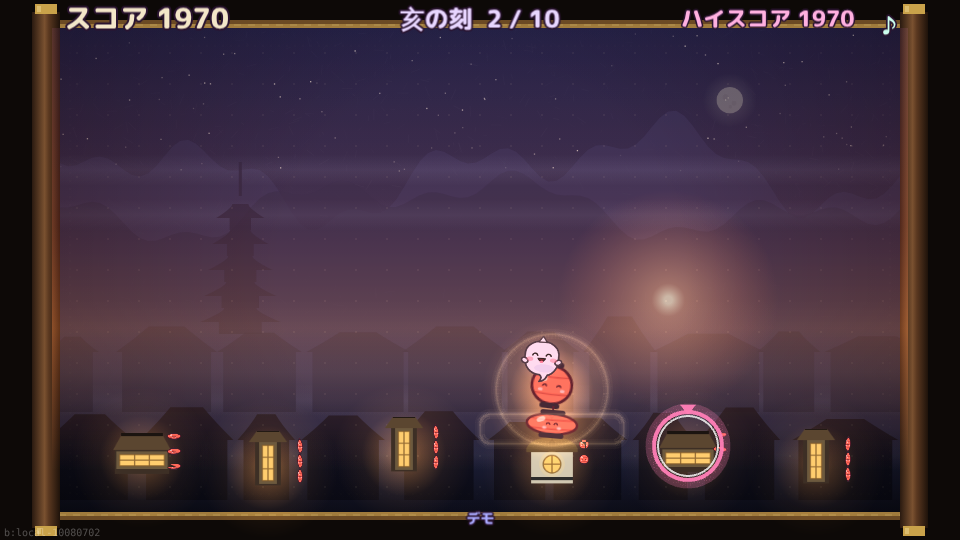
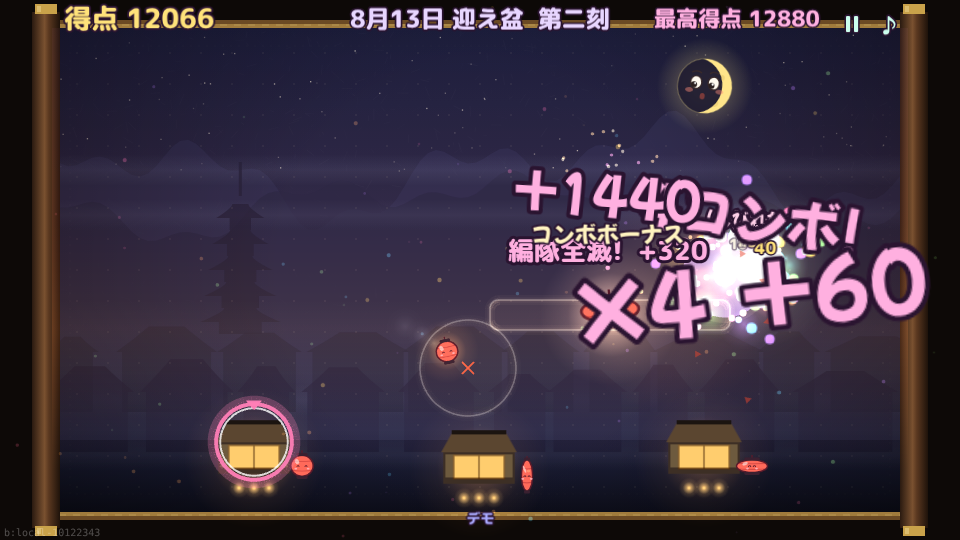
敵を少し増やす(群れ 1 組/刻・縦の群れ +0.5・出る間 0.85 倍)、1 発でまとめて倒すと「×n」・音・一瞬の止まり・点。刻ごとの通しクリア率を測る tools/clear.mjs
Claude-Session: https://claude.ai/code/session_01Juf5hZUAHSaBdTEaBHbLxy

diff --git a/src/game/logic.ts b/src/game/logic.ts
@@ -94,7 +94,8 @@ export interface Lantern {
 export interface House { x: number; y: number; hp: number; lit: boolean; ammo: number; regen: number; haunt: number; flash: number; piece: Piece; takenForm?: number }
 /** 光。中心から形どおりに伸びる。ext = 伸びた長さ(px)。中心からの距離が [ext - 帯, ext] の所が光っている */
 /** grow: 光の大きさの倍率、dmg: 当たった時の力(どちらもコンボの何発目かで増える) */
-export interface Blast { id: number; x: number; y: number; piece: Piece; ext: number; chain: number; grow: number; dmg: number }
+/** kills: この 1 発の光だけで成仏させた数(まとめ倒し) */
+export interface Blast { id: number; x: number; y: number; piece: Piece; ext: number; chain: number; grow: number; dmg: number; kills: number }
 /** t0: 連鎖が始まった時刻 */
 export interface Chain { id: number; count: number; pts: number; lx: number; ly: number; forms: Map<number, number>; bursts: number; t0: number }
 
@@ -109,6 +110,8 @@ export type GameEvent =
   | { type: 'purify'; x: number; y: number; n: number; pts: number; kind: GhostKind }
   | { type: 'chainEnd'; x: number; y: number; n: number; pts: number; bonus: number }
   | { type: 'formation'; x: number; y: number; size: number; bonus: number }
+  /** 1 発の光で n 体目を巻き込んだ(n >= 2 の時だけ。その場で「×n」) */
+  | { type: 'multi'; x: number; y: number; n: number; bonus: number }
   | { type: 'haunt'; x: number; y: number; house: number }
   | { type: 'saved'; x: number; y: number; house: number }
   | { type: 'houseOut'; x: number; y: number; house: number; left: number; kind?: GhostKind; ghost?: number }
@@ -170,7 +173,7 @@ export class Game {
     this.wave = startWave;
     this.pieces = PIECE_SETS[P.pieceSet] ?? PIECE_SETS['縦・横・丸'];
     this.buildHouses(dayOf(startWave));
-    this.groups = waveGroups(startWave, this.rng);
+    this.groups = waveGroups(startWave, this.rng, this.P.swarm, this.P.swarmLast);
   }
 
   /**
@@ -352,7 +355,7 @@ export class Game {
     const k = c.bursts - 1;
     const grow = 1 + Math.min(k, 4) * this.P.chainGrow;
     const dmg = Math.min(3, 1 + Math.floor(k / 2));
-    this.blasts.push({ id: this.nextId++, x: l.tx, y: l.ty, piece: l.piece, ext: 0, chain: c.id, grow, dmg });
+    this.blasts.push({ id: this.nextId++, x: l.tx, y: l.ty, piece: l.piece, ext: 0, chain: c.id, grow, dmg, kills: 0 });
     this.lanterns = this.lanterns.filter((q) => q !== l);
     this.events.push({ type: 'break', x: l.tx, y: l.ty, chained: !!chain, n: c.bursts, dmg, grow });
   }
@@ -443,10 +446,17 @@ export class Game {
         this.events.push({ type: 'watch', n: this.wave });
         // あせる時間: 第二・第三刻の途中で、しばらくおばけが速くなる(曲も速くなる)
         this.feverFrom = waveInDay(this.wave) >= this.P.feverFromHour ? this.t + this.P.feverAt : Infinity;
+        // 群れを少し増やして詰める: 小さいおばけの縦の群れ(2 体以上)に、日ごとの数を足す(小数は組に配る。0.5 なら 2 組に 1 体)
+        const more = [this.P.more1, this.P.more2, this.P.more3][Math.min(2, dayOf(this.wave))];
+        let k = 0;
         for (const g of this.groups) {
           const form = this.nextId++;
-          this.formSize.set(form, g.n * g.cols.length);
-          for (let i = 0; i < g.n; i++) this.queue.push({ at: this.t + g.t + i * g.gap * this.P.spread, g, form });
+          const small = g.kind !== 'big' && g.kind !== 'giant' && g.kind !== 'mega' && g.n >= 2;
+          const add = small ? Math.floor(more * (k + 1)) - Math.floor(more * k) : 0;
+          if (small) k++;
+          const n = g.n + add, gap = g.gap * this.P.spread * (small ? this.P.packGap : 1);
+          this.formSize.set(form, n * g.cols.length);
+          for (let i = 0; i < n; i++) this.queue.push({ at: this.t + g.t + i * gap, g, form });
         }
       }
       return;
@@ -464,7 +474,7 @@ export class Game {
         this.events.push({ type: 'dayEnd', day: dayOf(this.wave) });
         this.rebuildAt = this.t + DAY_FADE.dark;
       }
-      this.groups = waveGroups(this.wave + 1, this.rng);
+      this.groups = waveGroups(this.wave + 1, this.rng, this.P.swarm, this.P.swarmLast);
     }
   }
 
@@ -776,6 +786,13 @@ export class Game {
         chain.pts += pts; this.score += pts; this.purified++;
         chain.lx = g.x; chain.ly = g.y;
         this.events.push({ type: 'purify', x: g.x, y: g.y, n: chain.count, pts, kind: g.kind });
+        // まとめ倒し: 同じ 1 発の光で 2 体目・3 体目…を巻き込むたびに、その場で「×n」と点(n 体目は multiPts × (n-1))
+        b.kills++;
+        if (b.kills >= 2) {
+          const mb = Math.round(P.multiPts * (b.kills - 1));
+          chain.pts += mb; this.score += mb;
+          this.events.push({ type: 'multi', x: g.x, y: g.y, n: b.kills, bonus: mb });
+        }
       }
     }
   }

diff --git a/src/tuning.ts b/src/tuning.ts
@@ -39,6 +39,7 @@ export const KNOBS: Knob[] = [
   { key: 'score.big', label: '大入道の点の倍率', value: 5, min: 1, max: 20, step: 1, unit: '倍' },
   { key: 'score.giant', label: '大大入道の点の倍率', value: 12, min: 1, max: 50, step: 1, unit: '倍' },
   { key: 'score.mega', label: '特大入道の点の倍率', value: 25, min: 1, max: 60, step: 1, unit: '倍', aim: '倒した時のごほうび' },
+  { key: 'score.multi', label: 'まとめ倒しの点(1 発で n 体目)', value: 20, min: 0, max: 200, step: 5, unit: '点×(n-1)', aim: '1 発の光で 2 体目から、巻き込むたびに足す(3 体で 0+1+2 倍ぶん)。「×n」の表示と一緒' },
   { key: 'score.formation', label: '編隊ボーナス', value: 40, min: 0, max: 1000, step: 10, unit: '点×数×刻', aim: '一緒に来た群れを、一度の光(と誘爆)で全部倒した時' },
   // 家
   // おばけ(動きは種類ごとに決まっている)
@@ -69,10 +70,19 @@ export const KNOBS: Knob[] = [
   { key: 'ghost.zigLen', label: 'いなずまが家へ向かうまでに走る道のり', value: 1500, min: 400, max: 3000, step: 50, unit: 'px', aim: '速さ × 道のりで、倒すまでの猶予がほかと同じくらいになるように' },
   { key: 'ghost.march', label: '行進が 1 段で下がる高さ', value: 46, min: 20, max: 120, step: 2, unit: 'px', aim: 'インベーダーのように、端で下がる' },
   // 刻
+  // 敵の数と群れ(2026-10-13「少し敵が増えて、まとめて倒した感」)。硬さ(力)は変えずに数で
+  { key: 'wave.more1', label: '1 日目: 群れ 1 つに足すおばけ', value: 0.5, min: 0, max: 3, step: 0.25, unit: '体/群れ', aim: '小さいおばけの縦の群れ(2 体以上)に足す。小数は組に配る(0.5 = 2 組に 1 体)。0 = 前のまま' },
+  { key: 'wave.more2', label: '2 日目: 群れ 1 つに足すおばけ', value: 0.5, min: 0, max: 3, step: 0.25, unit: '体/群れ' },
+  { key: 'wave.more3', label: '3 日目: 群れ 1 つに足すおばけ', value: 0, min: 0, max: 3, step: 0.25, unit: '体/群れ', aim: '3 日目は足しすぎると崖(2 体でクリア率が半分)。少しずつ' },
+  { key: 'wave.packGap', label: '群れの詰まり(出る間の倍率)', value: 0.85, min: 0.4, max: 1.5, step: 0.05, unit: '倍', aim: '小さいほど群れが詰まって、1 発でまとめて取りやすい(同時に画面にいる数も増える)' },
+  { key: 'wave.swarm', label: '群れの組を足す(1)/ 足さない(0)', value: 1, min: 0, max: 1, step: 1, unit: '', aim: '各刻に 1 組、幽霊が横に詰めて 2 段で来る(1 日目 4 体、2・3 日目 6 体)。丸や横の光 1 発でまとめて取れる' },
+  { key: 'wave.swarmLast', label: '総力戦にも群れを足す', value: 0, min: 0, max: 1, step: 1, unit: '', aim: '総力戦は崖になりやすいので別のつまみ' },
   { key: 'wave.bonus', label: '刻を越えた時の 1 軒あたりの点', value: 50, min: 0, max: 500, step: 10, unit: '点×刻' },
   // 演出
   { key: 'juice.shake', label: '家の灯りが消えた時の揺れ', value: 0.012, min: 0, max: 0.05, step: 0.002, unit: '画面比' },
   { key: 'juice.hitstop', label: '大連鎖の一瞬の止まり', value: 60, min: 0, max: 200, step: 10, unit: 'ms', aim: '6 連以上で効く' },
+  { key: 'juice.multiStop', label: 'まとめ倒しの一瞬の止まり(×3 から、1 体ごと)', value: 30, min: 0, max: 80, step: 5, unit: 'ms', aim: '×3 で 1 倍、×4 で 2 倍、×5 以上で 3 倍。長いと重たく感じる' },
+  { key: 'juice.multiRing', label: 'まとめ倒しの光の輪の大きさ', value: 1, min: 0, max: 3, step: 0.1, unit: '倍', aim: '巻き込んだ数ほど大きく(×n で 1 + 0.45n 倍)' },
   { key: 'audio.bgm', label: 'BGM', value: true },
   { key: 'audio.sfx', label: '効果音の音量', value: 0.45, min: 0, max: 1, step: 0.05, aim: 'AI は聴かずに音量を決めるので大きめになりがち。控えめから' },
   { key: 'audio.music', label: 'BGM の音量', value: 0.28, min: 0, max: 1, step: 0.05 },

diff --git a/src/scenes/Play.ts b/src/scenes/Play.ts
@@ -48,6 +48,8 @@ export class Play extends Phaser.Scene {
   private player: Player | null = null;
   private bot: Bot | null = null;
   private hitstop = 0;
+  private multiText?: Phaser.GameObjects.Text;
+  private multiAt = 0;
   private ended = false;
   private offTap: (() => void) | null = null;
   private offAim: (() => void) | null = null;
@@ -432,6 +434,9 @@ export class Play extends Phaser.Scene {
         if (e.n >= 2) this.showChain(e.n, e.x, e.y);
         break;
       }
+      case 'multi':
+        this.showMulti(e.n, e.bonus, e.x, e.y);
+        break;
       case 'chainEnd':
         snd.chainEnd(e.n);
         if (e.bonus > 0) this.combo(e.n, e.bonus, e.x, e.y);
@@ -570,6 +575,33 @@ export class Play extends Phaser.Scene {
 
   /** コンボの瞬間: 倒すたびに「2コンボ!」「3コンボ!」…と、その場で勢いよく弾む(数が増えるほど大きく、色が変わる) */
   /** コンボの瞬間: 1 つの文字を書き換えていく(2コンボ → 3コンボ…)。増やさず、その場で弾んで色が変わる */
+  /** まとめ倒し: 1 発の光で 2 体目・3 体目…を巻き込むたびに、その場で「×n」が大きくなり、音が上がり、×3 から一瞬止まる */
+  private showMulti(n: number, bonus: number, x: number, y: number) {
+    snd.multi(n);
+    const cols = ['#9ff0ff', '#ffe27a', '#ffb0e0', '#b8ffb0', '#c8a0ff'];
+    const col = cols[(n - 2) % cols.length], size = Math.min(22 + n * 6, 64);
+    const xx = Phaser.Math.Clamp(x, 80, W - 80), yy = Phaser.Math.Clamp(y + 30, 60, H - 60);
+    // 同じ光の続き(近くで少し前に出たもの)なら、その「×n」を差し替えて大きくする
+    let o = this.multiText;
+    if (!o || !o.active || this.time.now - this.multiAt > 700 || Math.hypot(o.x - xx, o.y - yy) > 220) {
+      o = this.add.text(xx, yy, '', pop(size, col, { strokeThickness: 6 })).setOrigin(0.5).setDepth(62);
+      this.multiText = o;
+    }
+    this.multiAt = this.time.now;
+    this.tweens.killTweensOf(o);
+    o.setText(`×${n}${bonus > 0 ? `  +${bonus}` : ''}`).setFontSize(size).setColor(col).setAlpha(1).setScale(1.7).setAngle(n % 2 ? 6 : -6);
+    this.tweens.add({ targets: o, x: Phaser.Math.Linear(o.x, xx, 0.4), y: Phaser.Math.Linear(o.y, yy, 0.4), scale: 1, angle: 0, duration: 160, ease: 'Back.Out' });
+    this.tweens.add({ targets: o, y: '-=24', alpha: 0, delay: 650, duration: 380, ease: 'Quad.In', onComplete: () => { o!.destroy(); if (this.multiText === o) this.multiText = undefined; } });
+    // 巻き込むほど大きな光の輪と火の粉
+    const ring = this.add.image(x, y, 'glow').setBlendMode(Phaser.BlendModes.ADD).setTint(Phaser.Display.Color.HexStringToColor(col).color).setScale(0.3).setDepth(29);
+    this.tweens.add({ targets: ring, scale: tune<number>('juice.multiRing') * (1 + n * 0.45), alpha: 0, duration: 420 + n * 60, ease: 'Quad.Out', onComplete: () => ring.destroy() });
+    this.fireworksBig.explode(Math.min(6 + n * 5, 40), x, y);
+    if (n >= 3) {
+      this.hitstop = Math.max(this.hitstop, tune<number>('juice.multiStop') * Math.min(n - 2, 3));
+      this.cameras.main.shake(70 + n * 15, 0.0015 + Math.min(n, 6) * 0.0006);
+    }
+  }
+
   private showChain(n: number, x: number, y: number) {
     const cols = ['#fff3c0', '#ffe27a', '#9ff0ff', '#b8ffb0', '#ffb0e0', '#c8a0ff'];
     const size = Math.min(26 + n * 2.5, 52);

diff --git a/src/game/waves.ts b/src/game/waves.ts
@@ -136,6 +136,17 @@ const WAVES: Group[][] = [
   [...P.line(false), ...shift(P.loop(true), 2), ...shift(P.sides(false), 5), ...shift(Q.kazeRow(true), 8), ...shift(Q.marchK(false), 10),
     ...shift(Q.escort(false), 12), ...shift(P.cross(false), 17), ...shift(P.giant(false), 20), ...shift(Q.kazeSide(true), 22), ...shift(Q.zig(true), 15), ...shift(P.mega(false), 24)],
 ];
+// 群れ(2026-10-13): 小さい幽霊が横に詰めて 2 段で来る組。丸や横の光 1 発で「×4」「×6」とまとめて取れる。
+// 刻ごとに [出る秒, 列の数, 左右反転, 向かう家]。wave.swarm が 1 の時だけ足す(総力戦は wave.swarmLast)
+const swarm = (t: number, w: number, m: boolean, to: number): Group => {
+  const c0 = X(w === 2 ? 5 : 4, m);
+  return { t, kind: 'fuwa', cols: Array.from({ length: w }, (_, i) => (m ? c0 - i : c0 + i)), n: 2, gap: 0.55, to: T(to, m), turn: 0.5 };
+};
+const SWARMS: Array<Array<Parameters<typeof swarm>>> = [
+  [[11, 2, true, 2]], [[7, 2, false, 2]], [[5, 3, true, 3]],
+  [[7, 3, false, 2]], [[13, 3, true, 3]], [[4, 3, false, 3]],
+  [[12, 3, true, 2]], [[16, 3, false, 2]], [[18, 3, true, 3]],
+];
 export const WAVE_COUNT = WAVES.length;
 /** n ウェーブ目が何日目か(0 = 8/13)と、その日の何番目か */
 export const dayOf = (n: number) => Math.floor(n / WAVES_PER_DAY);
@@ -143,13 +154,14 @@ export const waveInDay = (n: number) => n % WAVES_PER_DAY;
 export const OPENING_WAVES = WAVES.length;
 
 /** n 刻目の出方(10 刻より先は、型を混ぜて毎回変わる。いまは 10 刻でクリア) */
-export function waveGroups(n: number, rng: Rng): Group[] {
+export function waveGroups(n: number, rng: Rng, swarms = 0, swarmLast = 0): Group[] {
   if (n < WAVES.length) {
+    const extra = swarms > 0 && (n < WAVES.length - 1 || swarmLast > 0) ? SWARMS[n].map((a) => swarm(...a)) : [];
     // 2・3 日目は、刻ごとに決まった縦の筋へみんなが集まってから家へ(狙ってまとめて倒しやすく、家までの道も長く)
     // 3 日目は第一・第二刻だけ集まりを弱める(筋に寄らない組を混ぜる)代わりに、総力戦は少し軽く
     // 2・3 日目は、刻ごとに決まった縦の筋へいったん集まってから家へ(やりすぎないよう、3 日目の第一・第二刻は半分の組だけ)
     const via = n >= WAVES_PER_DAY ? [300, 480, 660][n % 3] : undefined;
-    return WAVES[n].map((g, k) => ({ ...g, via: n >= 2 * WAVES_PER_DAY && n < WAVES.length - 1 && k % 2 ? undefined : via }));
+    return [...WAVES[n], ...extra].map((g, k) => ({ ...g, via: n >= 2 * WAVES_PER_DAY && n < WAVES.length - 1 && k % 2 ? undefined : via }));
   }
   const keys = Object.keys(PATTERNS);
   const out: Group[] = [];

diff --git a/src/game/sound.ts b/src/game/sound.ts
@@ -90,6 +90,13 @@ export const snd = {
       if (n >= 4) { tone({ freq: f * 2, dur: 0.18, type: 'triangle', gain: 0.025, delay: 0.04 }); tone({ freq: f * 3, dur: 0.12, type: 'triangle', gain: 0.018, delay: 0.08 }); }
     }
   },
+  /** 1 発の光で n 体目を巻き込んだ: 「ぽん」が巻き込むほど高く・明るく(×3 からきらめき、×5 から和音) */
+  multi: (n: number) => {
+    const f = brightNote(Math.min(n + 2, 12));
+    chime(f, 0.05 + Math.min(n, 6) * 0.006, 0, 0.5 + n * 0.08);
+    if (n >= 3) tone({ freq: f * 1.5, dur: 0.22, type: 'triangle', gain: 0.022, delay: 0.05 });
+    if (n >= 5) { tone({ freq: f * 1.26, dur: 0.3, type: 'sine', gain: 0.02, delay: 0.09 }); tone({ freq: f * 2, dur: 0.3, type: 'sine', gain: 0.018, delay: 0.12 }); }
+  },
   burnout: () => noise({ dur: 0.4, gain: 0.06, freq: 600, q: 2 }),
   /** n 体目の成仏: 鈴が音階を上っていく */
   purify: (n: number) => rin(note(6 + Math.min(n - 1, 12)), 0.045, 0, 1.0),

diff --git a/src/game/params.ts b/src/game/params.ts
@@ -58,6 +58,13 @@ export function readParams() {
     waveBonus: tune('wave.bonus'),
     chainBonus: tune('score.chain'),
     formBonus: tune('score.formation'),
+    multiPts: tune('score.multi'),
+    more1: tune('wave.more1'),
+    more2: tune('wave.more2'),
+    more3: tune('wave.more3'),
+    packGap: tune('wave.packGap'),
+    swarm: tune('wave.swarm'),
+    swarmLast: tune('wave.swarmLast'),
   };
 }
 export type Params = ReturnType<typeof readParams>;

diff --git a/HANDOFF.md b/HANDOFF.md
@@ -2,7 +2,7 @@
 
 <!-- セッション終了時に AI が更新。別の AI が読んで続きを始められる内容にする。 -->
 
-## 現状(2026-10-09 73 回目まで。置ける提灯はどの日も 3、光は縦横 120・丸 48。家の形は重ならずに配る。連鎖は置いてあった提灯だけ。家は 3 匹で落ちる(前に灯り 3 つ)。敵の動きは読みやすい新版(F2「おばけの動き」0 で前の動き)。ルート図 docs/routes.png。投げる家は固定(真ん中から、押して変える)をお試し中(F2「投げる家」0 で前の方式)。日の変わり目は暗転、3 日目のあとは夜明け。これまでの版は /history/(history ブランチ、tools/history.sh)。形の検証道具 tools/shapes.mjs(斜めの角度 light.diag・隊列の間 ghost.spread は F2 で試せる。既定は前のまま)。公開中: https://mukkii-game.github.io/obake-chochin/ )
+## 現状(2026-10-13 74 回目まで。置ける提灯はどの日も 3、光は縦横 120・丸 48。家の形は重ならずに配る。連鎖は置いてあった提灯だけ。家は 3 匹で落ちる(前に灯り 3 つ)。敵の動きは読みやすい新版(F2「おばけの動き」0 で前の動き)。ルート図 docs/routes.png。投げる家は固定(真ん中から、押して変える)をお試し中(F2「投げる家」0 で前の方式)。日の変わり目は暗転、3 日目のあとは夜明け。これまでの版は /history/(history ブランチ、tools/history.sh)。形の検証道具 tools/shapes.mjs(斜めの角度 light.diag・隊列の間 ghost.spread は F2 で試せる。既定は前のまま)。公開中: https://mukkii-game.github.io/obake-chochin/ )
 遊びの芯: 押して離した所へ家から提灯が飛び、着いて 3 秒で弾ける。光が他の提灯の範囲の縁に触れると 0.2 秒ずつ順に誘爆(ぴん、ぽん、ぱーん)。光の形(縦・横・丸)は家ごとに違い、軒先の提灯の形で分かる(家の絵はどれも同じ長屋)。
 - **日と刻**: 8/13 迎え盆・8/14 中日・8/15 お盆 × 第一〜第三刻 = 9 刻(src/game/waves.ts の WAVES と WAVE_NAMES)。題: 幽霊の行列 / 唐傘の横渡り / 鬼火の輪と大入道 / はやて / おばけの行進 / 大入道とざこたち / はさみうち / 大入道まつり / 総力戦!。8/15 を凌ぐとエンディング(src/scenes/Ending.ts、スタッフロール)→ 結果。日が変わると家は全部灯り直す。
 - **家と提灯**: 家は 1 日目 3・2 日目 4・3 日目 5 軒。提灯の在庫は無く、画面に置けるのは家の数まで(3・4・5)。2・3 日目は光が 1.5・2 倍に広がり、斜め(右・左)の家も入る(形はランダム)。家の選択は 1 回投げたら外れる。次の日は家が全部灯る(持ち越さない)。2・3 日目のおばけは縦の筋にいったん集まる。日のはじめに「ちょうちんは 3つまで おけるよ! れんさで パワーUP!」。いっぱいの時はカーソルの置き場所の枠が点滅するだけ、押すと「3こまで!」。
@@ -17,14 +17,17 @@
 - **1 日目**: おばけは 0.75 倍の速さ(ghost.day1。家が 3 軒しかないので)。
 - **群れ**: 小さいおばけは必ず 3 体以上の詰まった群れで来る(間 0.6〜0.9 秒)。家が消えても隊列はばらけず、同じ家へ同じ道の形のまま向かう。爆発は少なめの粒から、コンボで増えて白くなる。
 - **言葉**: 「ウェーブ」は使わず「第一刻」。得点・最高得点。結果: 村の灯りがきえちゃった / 最大れんさ / 成仏させた / たおした隊列 / たどりついた日。
+- **敵を少し増やした・まとめ倒し(74 回目、2026-10-13)**: 硬さはそのまま。各刻に幽霊の「群れ」1 組(横に詰めて 2 段。1 日目 4 体・2・3 日目 6 体、総力戦は無し)= wave.swarm 0→1 / 1・2 日目の縦の群れは 2 組に 1 組 +1 体 = wave.more1・more2 0→0.5(3 日目 wave.more3 は 0 のまま)/ 群れの出る間 wave.packGap 1→0.85。刻ごとの敵の数 11・12・12・17・18・25・18・27・51 → 16・18・22・25・26・35・24・33・51。1 発で 2 体以上まとめて倒す回数は刻あたり約 1.3〜1.5 倍。1 発で巻き込むたびに「×n +点」(score.multi 0→20 点×(n-1))、高くなる鐘、光の輪(juice.multiRing 1)、×3 から一瞬止まる(juice.multiStop 30ms×(n-2)、3 段まで)。bot(tools/clear.mjs 400 回、通し)で総力戦を越えた割合: 速い 98→95% / 0.6 秒遅れ 76→70% / 遅い 63→59% / もっと遅い(0.7, 1 秒)56→48%。2 日目の終わりまで: 99〜100% → 94〜99%(遅い bot ほど 5〜6 ポイント下がる)。1 日目はどれも 100% のまま。
 - 経緯は DECISIONS.md の 19〜32 回目。仮決めは QUESTIONS.md。数値は全部 src/tuning.ts(F2)。
 
 ## 確認できたこと(この環境)
 - 毎回: tsc / build / sim(決定性 OK)/ test:replay(記録の再生が一致)。 バランスと攻略性は `node tools/eval.mjs 10`(上手い / ためる / 網を作る / 形を考えない / ふつう / 初心者 / 先読みしない の bot を並べる。ONLY=0,3 で絞る、OVR='{"lureR":50}' で数値を上書き)。見た目を変えた回は Playwright で画面を撮って確認。
 - クリア率(node tools/sim.mjs 16 / 0.6 秒遅れは `node tools/sim.mjs 10 0.8 0.6`): 速い bot 16/16、0.6 秒遅れる bot 10 回中 5〜7 回。刻ごとは `node tools/waves.mjs 4`。
-- 未確認: 音を実際に聴いた感じ、実機スマホ、人間の難しさの感じ方。大入道の泣き顔の段階・人の大ジャンプは画面で未確認。公開 URL はこの環境から開けないので、CI の公開成否を API で確かめている。
+- 刻ごとの通しのクリア率は `node tools/clear.mjs 400`(4 種の bot、約 4 分。BOTS='0.8:0.6' で選ぶ、OVR='{"swarm":0}' で params を上書き)。数が少ないと ±5 ポイントは揺れるので 300 回以上で比べる。
+- 未確認: 「×n」の音とヒットストップの手触り(画面には出ることを確認)、音を実際に聴いた感じ、実機スマホ、人間の難しさの感じ方。大入道の泣き顔の段階・人の大ジャンプは画面で未確認。公開 URL はこの環境から開けないので、CI の公開成否を API で確かめている。
 
 ## 次の一手
+- 74 回目の確かめ: 1 日目第三刻(群れ 6 体が来る)・2 日目第三刻・3 日目第二刻を遊んで、「×3」「×6」の気持ちよさと難しさを見る。重ければ juice.multiStop を下げる。増やし足りなければ wave.more3 を 0.25 ずつ。
 - 人間が遊んで難しさを決める: 8/15 は敵を 2 体足すだけでクリア率が半分になる崖がある。足すなら 1 つずつ。横の速さ ghost.side、いなずま ghost.inazuma / ghost.zigLen、コンボの広がり chain.grow、連鎖の余裕 chain.pad、誘爆の間 chain.delay。
 - スタッフロールの名前の確認(src/scenes/Ending.ts の STAFF)。
 - 絵の差し替え(tools/art/README.md)。
@@ -80,4 +83,6 @@
 - 2026-10-08 【憲法・雛形の担当の方へ】HANDOFF の更新は「push のたび」ではなく「人間の依頼のひと区切りごと」になりがちで、細かい依頼が続くと十数回分ずれた(人間に「いわれなくてもやってる?」と聞かれた)。DECISIONS への追記は毎回していたので、HANDOFF の「現状」は DECISIONS から要約すれば戻せた。提案: AGENTS.md に「push のたびに HANDOFF の現状の行も 1 行直す(全体は読み直さず該当行だけ。全体を読むと約 1 万トークン、該当行だけなら数百)」と明記する。この repo の AGENTS.md には先に入れた。人間(Mukkii)の意向: 憲法ルールは定期的に見直したい。
 - 2026-10-08 【憲法・雛形の担当の方へ】Facebook に公開 URL を貼っても絵が出ない(人間の指摘「これも」= ほかの作品でも起きている): 症状 = og:image は絶対 URL で書いてあり、public/og.png(1200×630)もあるのに、Facebook のリンクに絵が出ない → 原因(見込み) = (1) og:image:width / height が無いと、Facebook は初めて取りに来た時に絵を後回しにして、絵なしのまま覚えることがある (2) Facebook は一度取った結果を長く覚えている(直しても古いまま) (3) og.png が作り始めの古い画面のままだった → 修正 = index.html に og:image:width=1200 / height=630 / type / secure_url / alt と twitter:image を足し、og.png を今の画面に撮り直した → 確かめ = dist/index.html と dist/og.png に入ったことまで(この環境からは Facebook に届かない) → 未確認 = Facebook での表示。人間が https://developers.facebook.com/tools/debug/ に URL を入れて「もう一度取得」を押すと、覚えている古い結果が更新される。提案: 雛形の index.html に width/height の行を最初から入れる。AGENTS.md の「公開」に「見た目を変えたら og.png も撮り直す」「Facebook はシェアデバッガーで取り直す」を足す。
 - 会議室: knowledge/platforms.md, knowledge/tables/procedures.csv / 食い違い: platforms.md は itch.io を「全自動(butler)」と書くが、procedures.csv の 4 は「ゲームページの作成は初回だけ人間(以後は Actions で自動)」。人間は「ページ作りまで自動のはず」と受け取っていた。itch.io にはページを作る公開 API が無く、butler は既にあるページへ上げるだけ。【憲法・雛形の担当の方へ】platforms.md を「更新は全自動、最初のページ作成と secret は人間(5 分)」に直すと誤解が減る。
-
+- 2026-10-13 「敵を増やす = 難しくなる」とは限らない: 症状 = 縦の群れの体数を足すと、bot のクリア率がかえって上がった(0.6 秒遅れ bot で 76→84%)→ 原因(見込み) = 同じ道を通る敵が増えると 1 発でまとめて取れる数が増え、取りこぼしが減る。大連鎖で家が戻る回数は変わらなかったので、そちらではない → 修正 = 「数」を増やすのは別の向きから来る組(群れ)で、難しさは出る間を詰めること(同時に画面にいる数)で付けた → 確かめ = tools/clear.mjs を各 400 回、4 種の bot で比べ、どれも 3〜8 ポイントだけ下がった → 未確認 = 人間の体感。難しさの調整は「足す場所」で効き方が逆になるので、案ごとに bot で測る。100 回以下だと ±5 ポイント揺れて判断を誤る。
+- 2026-10-13 「まとめて倒した感」は連鎖(誘爆の数)とは別に、1 発の光ごとの巻き込み数で出す: その場で「×n」を差し替えながら大きくし、音を上げ、×3 から 30ms ずつ止める(会議室 pieces.csv ACT-038「止めて揺らすヒット」= 強いほど長く止める、と同じ考え)。数え方は中身(logic)にイベントとして置くと、bot でも「まとめ倒しの回数」を測れる。
+- 会議室: knowledge/genres/shmup.md(§4・ミサイルコマンド系)/ 役立った(「速さより数と並びで難しくする」が方針に合った)。knowledge/tables/pieces.csv / 「まとめて倒す」専用のピースは無かった(ACT-038 ヒットストップ・ACT-073 敵種で固める が近い)。足すとよい: 「1 発の巻き込み数を ×n で見せ、数で音・止まりを強める」。

diff --git a/SPEC.md b/SPEC.md
@@ -25,8 +25,8 @@
 - せき止め: 置かれた提灯に着いたおばけは見とれて止まり、後ろは止まったおばけの手前でつかえる(弾けるまで)。
 - 大入道: 1 刻目から出る大きなおばけ。ゆっくりで、光 3 回で成仏(当たるたびに小さくなる。数字は出さない)。点は 5 倍。大大入道は 3 刻目から、もっと大きくてもっとゆっくり、光 6 回、点は 12 倍。
 - おばけ(決まった道筋。どれも途中で 1〜2 回だけ向きが変わる): 幽霊 = 主に縦(降りる → 少し横 → 降りる)/ 唐傘 = 主に横(端から出て少し降り、長く横へ渡り、家の上で降りる)/ 鬼火 = 輪を 1 周描いてから突っ込む(ギャラガ。輪の間は丸が有利)。おばけは BGM の拍(152 BPM)に合わせて弾む。巻物の上の外から降りてくる。
-- 得点: 1 回の光と誘爆の n 体目は 10 × n 点。3 連以上は「N コンボ!」ボーナス 160 ×(n-2)²(得点の主役。待って大きくつなぐほど伸びる)(決めた所にぽんっと出る。上のスコアは数え上がって跳ねる)。一緒に来た編隊を一度に全部倒すと編隊ボーナス 40 × 数 × 刻(大きく表示)。ハイスコアを画面上に出す。12 連以上で消えた家が 1 つ戻る。
-- 日とウェーブ(src/game/waves.ts): **8/13(迎え盆)・8/14・8/15(お盆)の 3 日 × 最大 3 ウェーブ = 全 9 ウェーブ。8/15 を凌げばクリア → エンディングとスタッフロール**。負けたらコンティニューで、その日のはじめから(スコアは 0 から)。お月さまの顔は日ごとに変わる。コンボするほど光が大きく(1 発ごとに 12%、4 段まで)、力も上がる(1・1・2・2・3)。雑魚は一撃、大入道は 3・大大入道は 6 なのでコンボで早く倒せる。いなずま(すごく速いが、斜めと横に曲がりながら長く走ってから家へ)、はやて(速い)と行進(インベーダーのように左右に渡って 1 段ずつ下がる)もいる。ウェーブには題がある(幽霊の行列 / 唐傘の横渡り / 鬼火の輪と大入道 / はやて / おばけの行進 / 大入道とざこたち / はさみうち / 大入道まつり / 総力戦!)。左右の端から横一列に渡ってくる組も混ざる(横の提灯で一網打尽)。画面に同時に置ける提灯はどの日も 3 つ(いっぱいの時はカーソルの枠が速く点滅)。残りの提灯は家の右下に重ねて並ぶ。提灯は家の高さより下へは投げられない(おばけも家に入る時しか下りない)。狙いのカーソルに「あと N」、置けない時は赤い ×。倒すたびに「N コンボ!」。ESC(スマホは右上の II)でポーズ: もどる / その日のはじめから / タイトルへ。タイトルの「めんセレクト」でどの日からでも始められる。日が変わると家はすべて灯り直す。空は毎日夕方から夜へ。8/13 は少なめでサクサク、いろんなおばけの顔見世。後の日ほど型を重ねる(一列 / 横並び / 段 / 横渡り / 交差 / 輪 / 大入道 / せき止め)。
+- 得点: 1 回の光と誘爆の n 体目は 10 × n 点。3 連以上は「N コンボ!」ボーナス 160 ×(n-2)²(得点の主役。待って大きくつなぐほど伸びる)(決めた所にぽんっと出る。上のスコアは数え上がって跳ねる)。一緒に来た編隊を一度に全部倒すと編隊ボーナス 40 × 数 × 刻(大きく表示)。ハイスコアを画面上に出す。12 連以上で消えた家が 1 つ戻る。**まとめ倒し**: 1 発の光で 2 体目・3 体目…を巻き込むたびに、その場で「×n +点」(n 体目は 20 ×(n-1) 点)、音が上がり、光の輪が大きくなり、×3 から一瞬止まる。
+- 日とウェーブ(src/game/waves.ts): **8/13(迎え盆)・8/14・8/15(お盆)の 3 日 × 最大 3 ウェーブ = 全 9 ウェーブ。8/15 を凌げばクリア → エンディングとスタッフロール**。負けたらコンティニューで、その日のはじめから(スコアは 0 から)。お月さまの顔は日ごとに変わる。コンボするほど光が大きく(1 発ごとに 12%、4 段まで)、力も上がる(1・1・2・2・3)。雑魚は一撃、大入道は 3・大大入道は 6 なのでコンボで早く倒せる。いなずま(すごく速いが、斜めと横に曲がりながら長く走ってから家へ)、はやて(速い)と行進(インベーダーのように左右に渡って 1 段ずつ下がる)もいる。ウェーブには題がある(幽霊の行列 / 唐傘の横渡り / 鬼火の輪と大入道 / はやて / おばけの行進 / 大入道とざこたち / はさみうち / 大入道まつり / 総力戦!)。左右の端から横一列に渡ってくる組も混ざる(横の提灯で一網打尽)。各刻に 1 組、幽霊が横に詰めて 2 段で来る**群れ**(1 日目 4 体、2・3 日目 6 体。総力戦には無し)。1・2 日目は縦の群れが 2 組に 1 組、1 体長い。群れの出る間はどこも 0.85 倍に詰まる。画面に同時に置ける提灯はどの日も 3 つ(いっぱいの時はカーソルの枠が速く点滅)。残りの提灯は家の右下に重ねて並ぶ。提灯は家の高さより下へは投げられない(おばけも家に入る時しか下りない)。狙いのカーソルに「あと N」、置けない時は赤い ×。倒すたびに「N コンボ!」。ESC(スマホは右上の II)でポーズ: もどる / その日のはじめから / タイトルへ。タイトルの「めんセレクト」でどの日からでも始められる。日が変わると家はすべて灯り直す。空は毎日夕方から夜へ。8/13 は少なめでサクサク、いろんなおばけの顔見世。後の日ほど型を重ねる(一列 / 横並び / 段 / 横渡り / 交差 / 輪 / 大入道 / せき止め)。
 - 空: タイトルと 1 刻目は夕焼け、5 刻目までにだんだん夜になり、月が昇る。
 - やられたおばけは目が ＞＜(唐傘は ×)になって口をぽかんと開け、くるっと回って昇って消える。声で「やられたー!」「ひゃー!」など(たくさん倒れてもうるさくならないよう間を空ける)。
 - 連爆の音: 2 つ目からは高くてきれいな鐘が明るい音階で上がっていき(ピン・ポン・パーン…)、3 体以上まとめると締めに「ピンポンパーン!」。

diff --git a/QUESTIONS.md b/QUESTIONS.md
@@ -60,3 +60,5 @@
 
 - (71 回目)斜めの光を 26.6°(おばけの傾き)にするか、45° のままか。隊列の間を広げる(ghost.spread 3〜4)か。広げると形の差は出るが、同時に来る数が減って易しくなるので、数か速さで戻す必要あり。
 - (73 回目).github/workflows/build-and-deploy.yml に「history ブランチを /history/ に載せる」手順を足した(これまでの版を別 URL で遊ぶため)。
+- (74 回目)敵を少し増やした(群れ 1 組 / 刻、1・2 日目の縦の群れ +0.5 体、出る間 0.85 倍)。仮決め: 総力戦(3 日目第三刻)は数を増やさず詰めるだけ(崖のため。足すなら F2 の wave.swarmLast = 1、ただし bot ではかえって越えやすくなった)。注文の「8 面と 15 面の崖」は HANDOFF の「8/15(= 3 日目)の崖」のことと読んだ。他の選択肢: 3 日目も wave.more3 = 0.25〜0.5 / 群れをもっと詰める wave.packGap 0.8(遅れ bot 76→66)。
+- (74 回目)まとめ倒しの点は 20 ×(n-1)(score.multi)。コンボボーナスより小さく、主役はコンボのまま。もっと「まとめ」を主役にするなら 40〜60。一瞬の止まりは 30ms から(juice.multiStop)。
